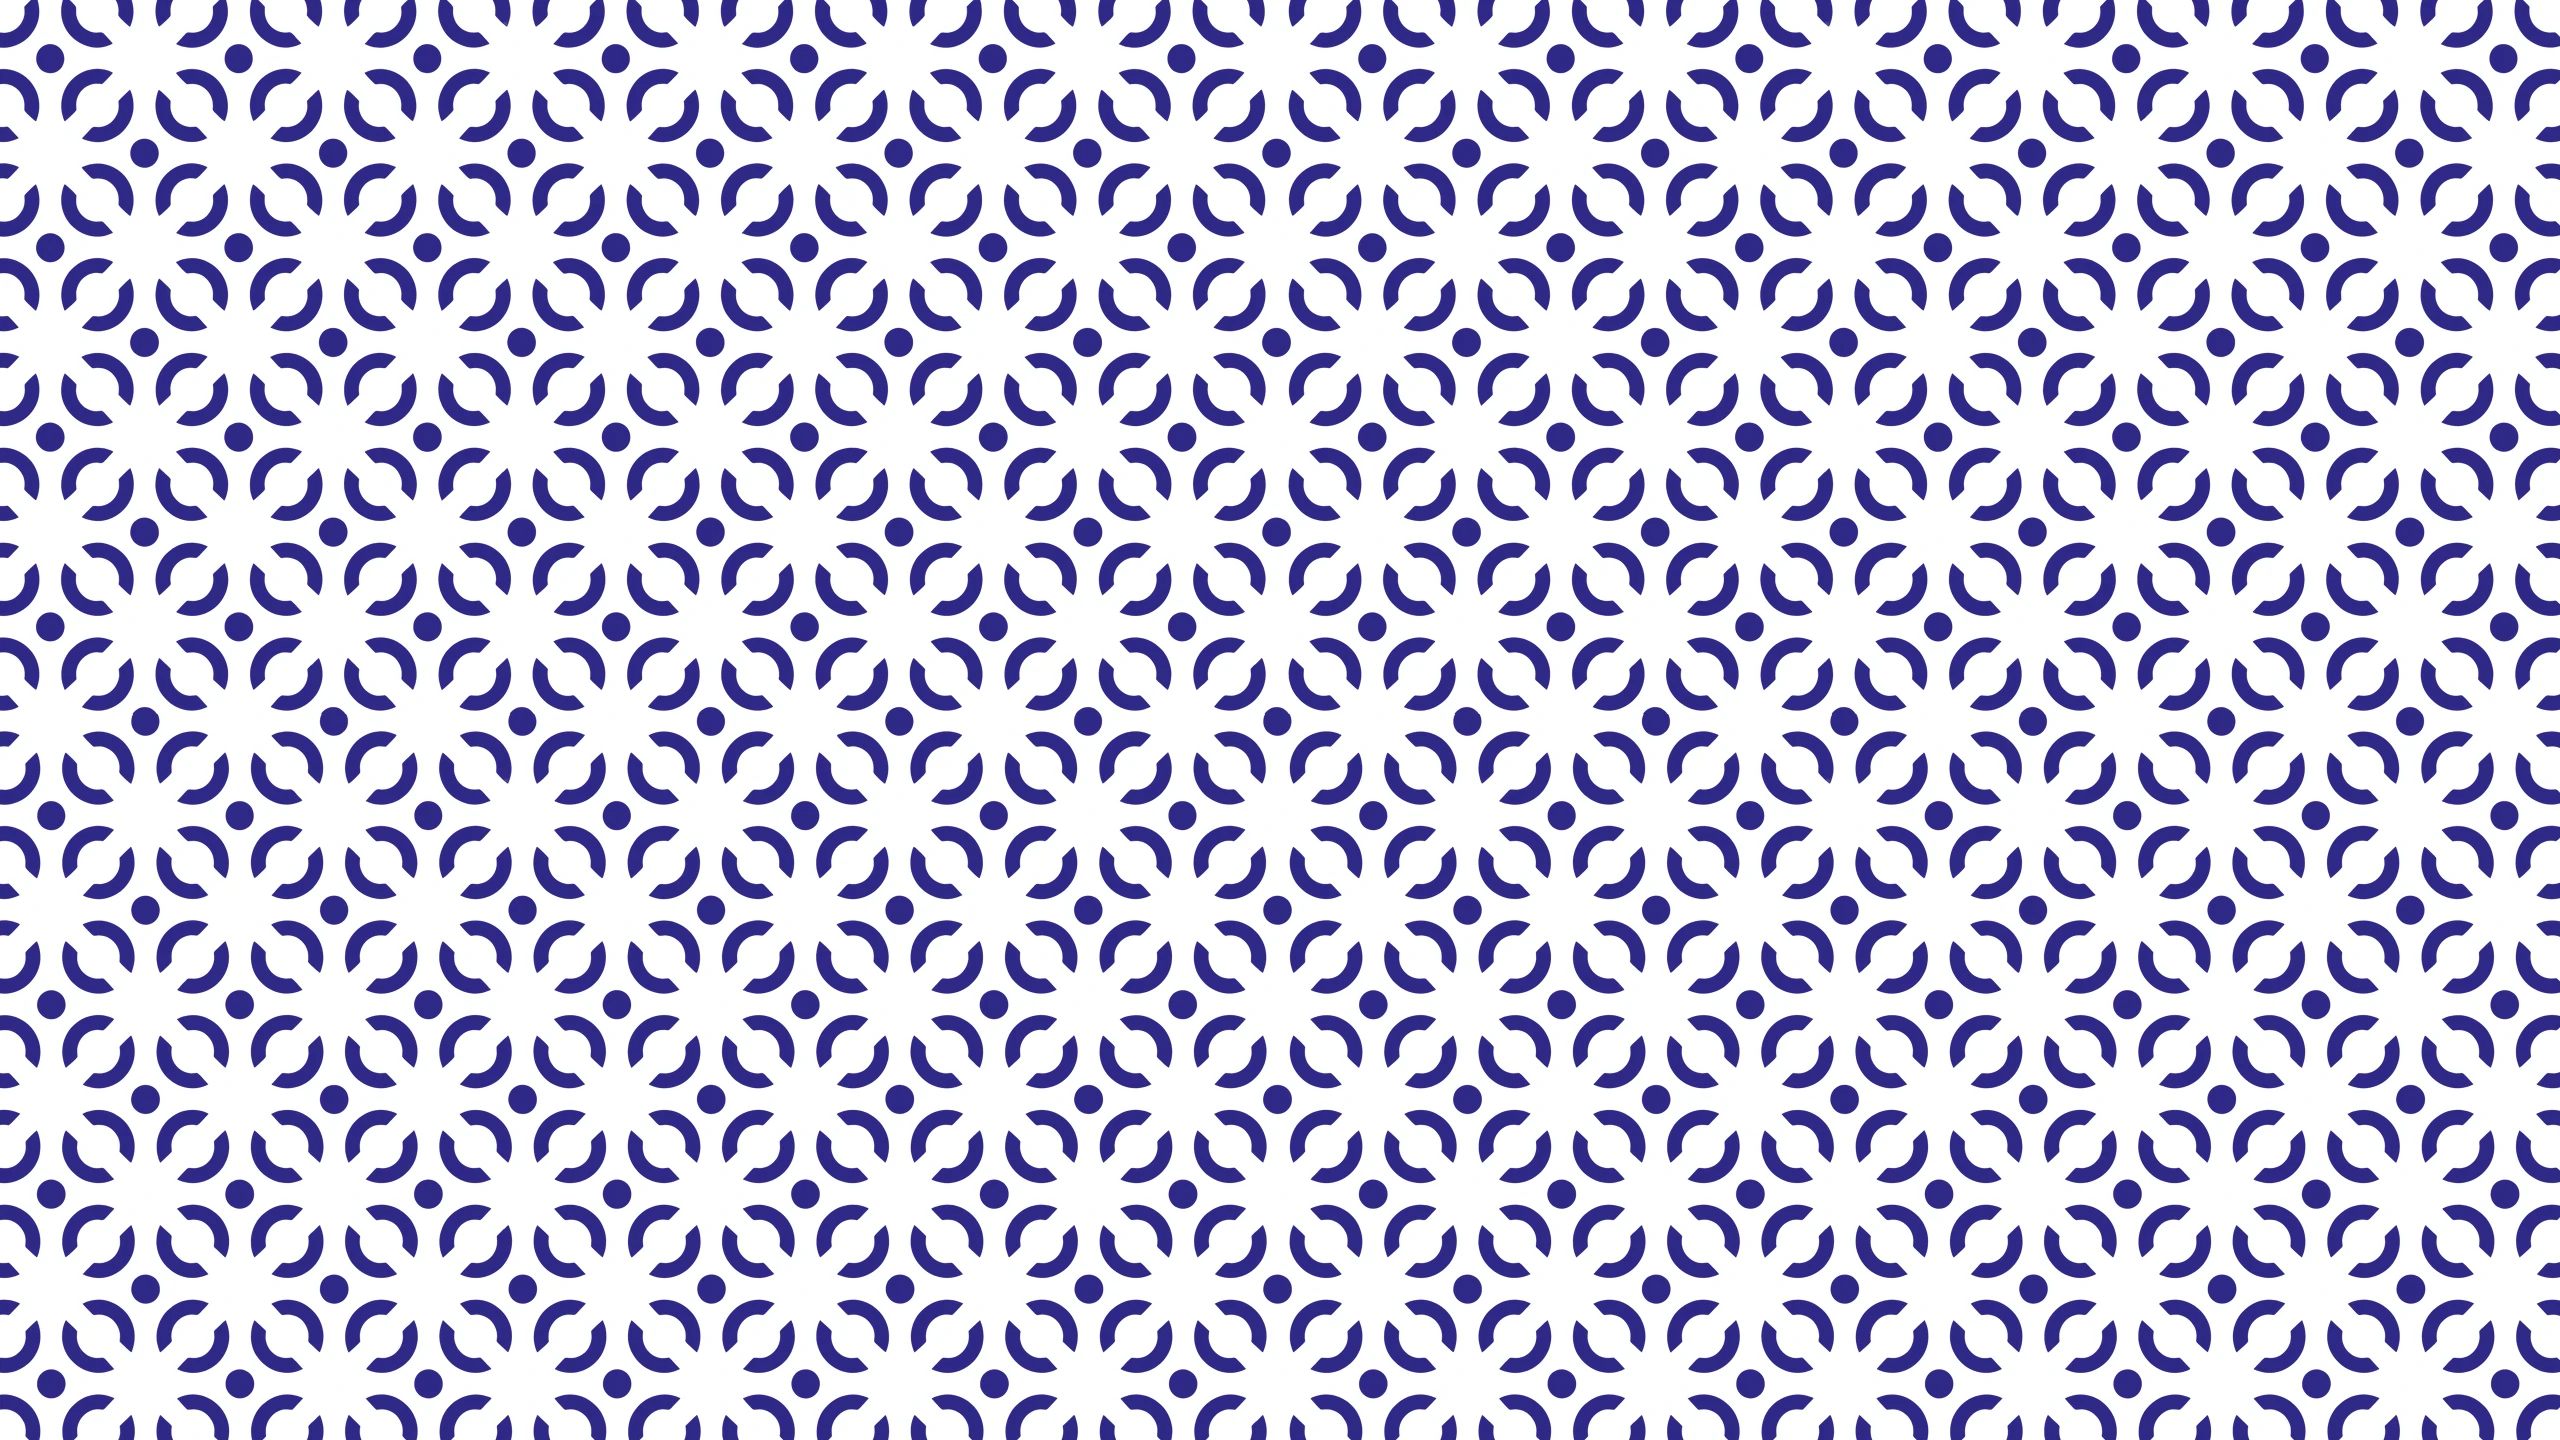
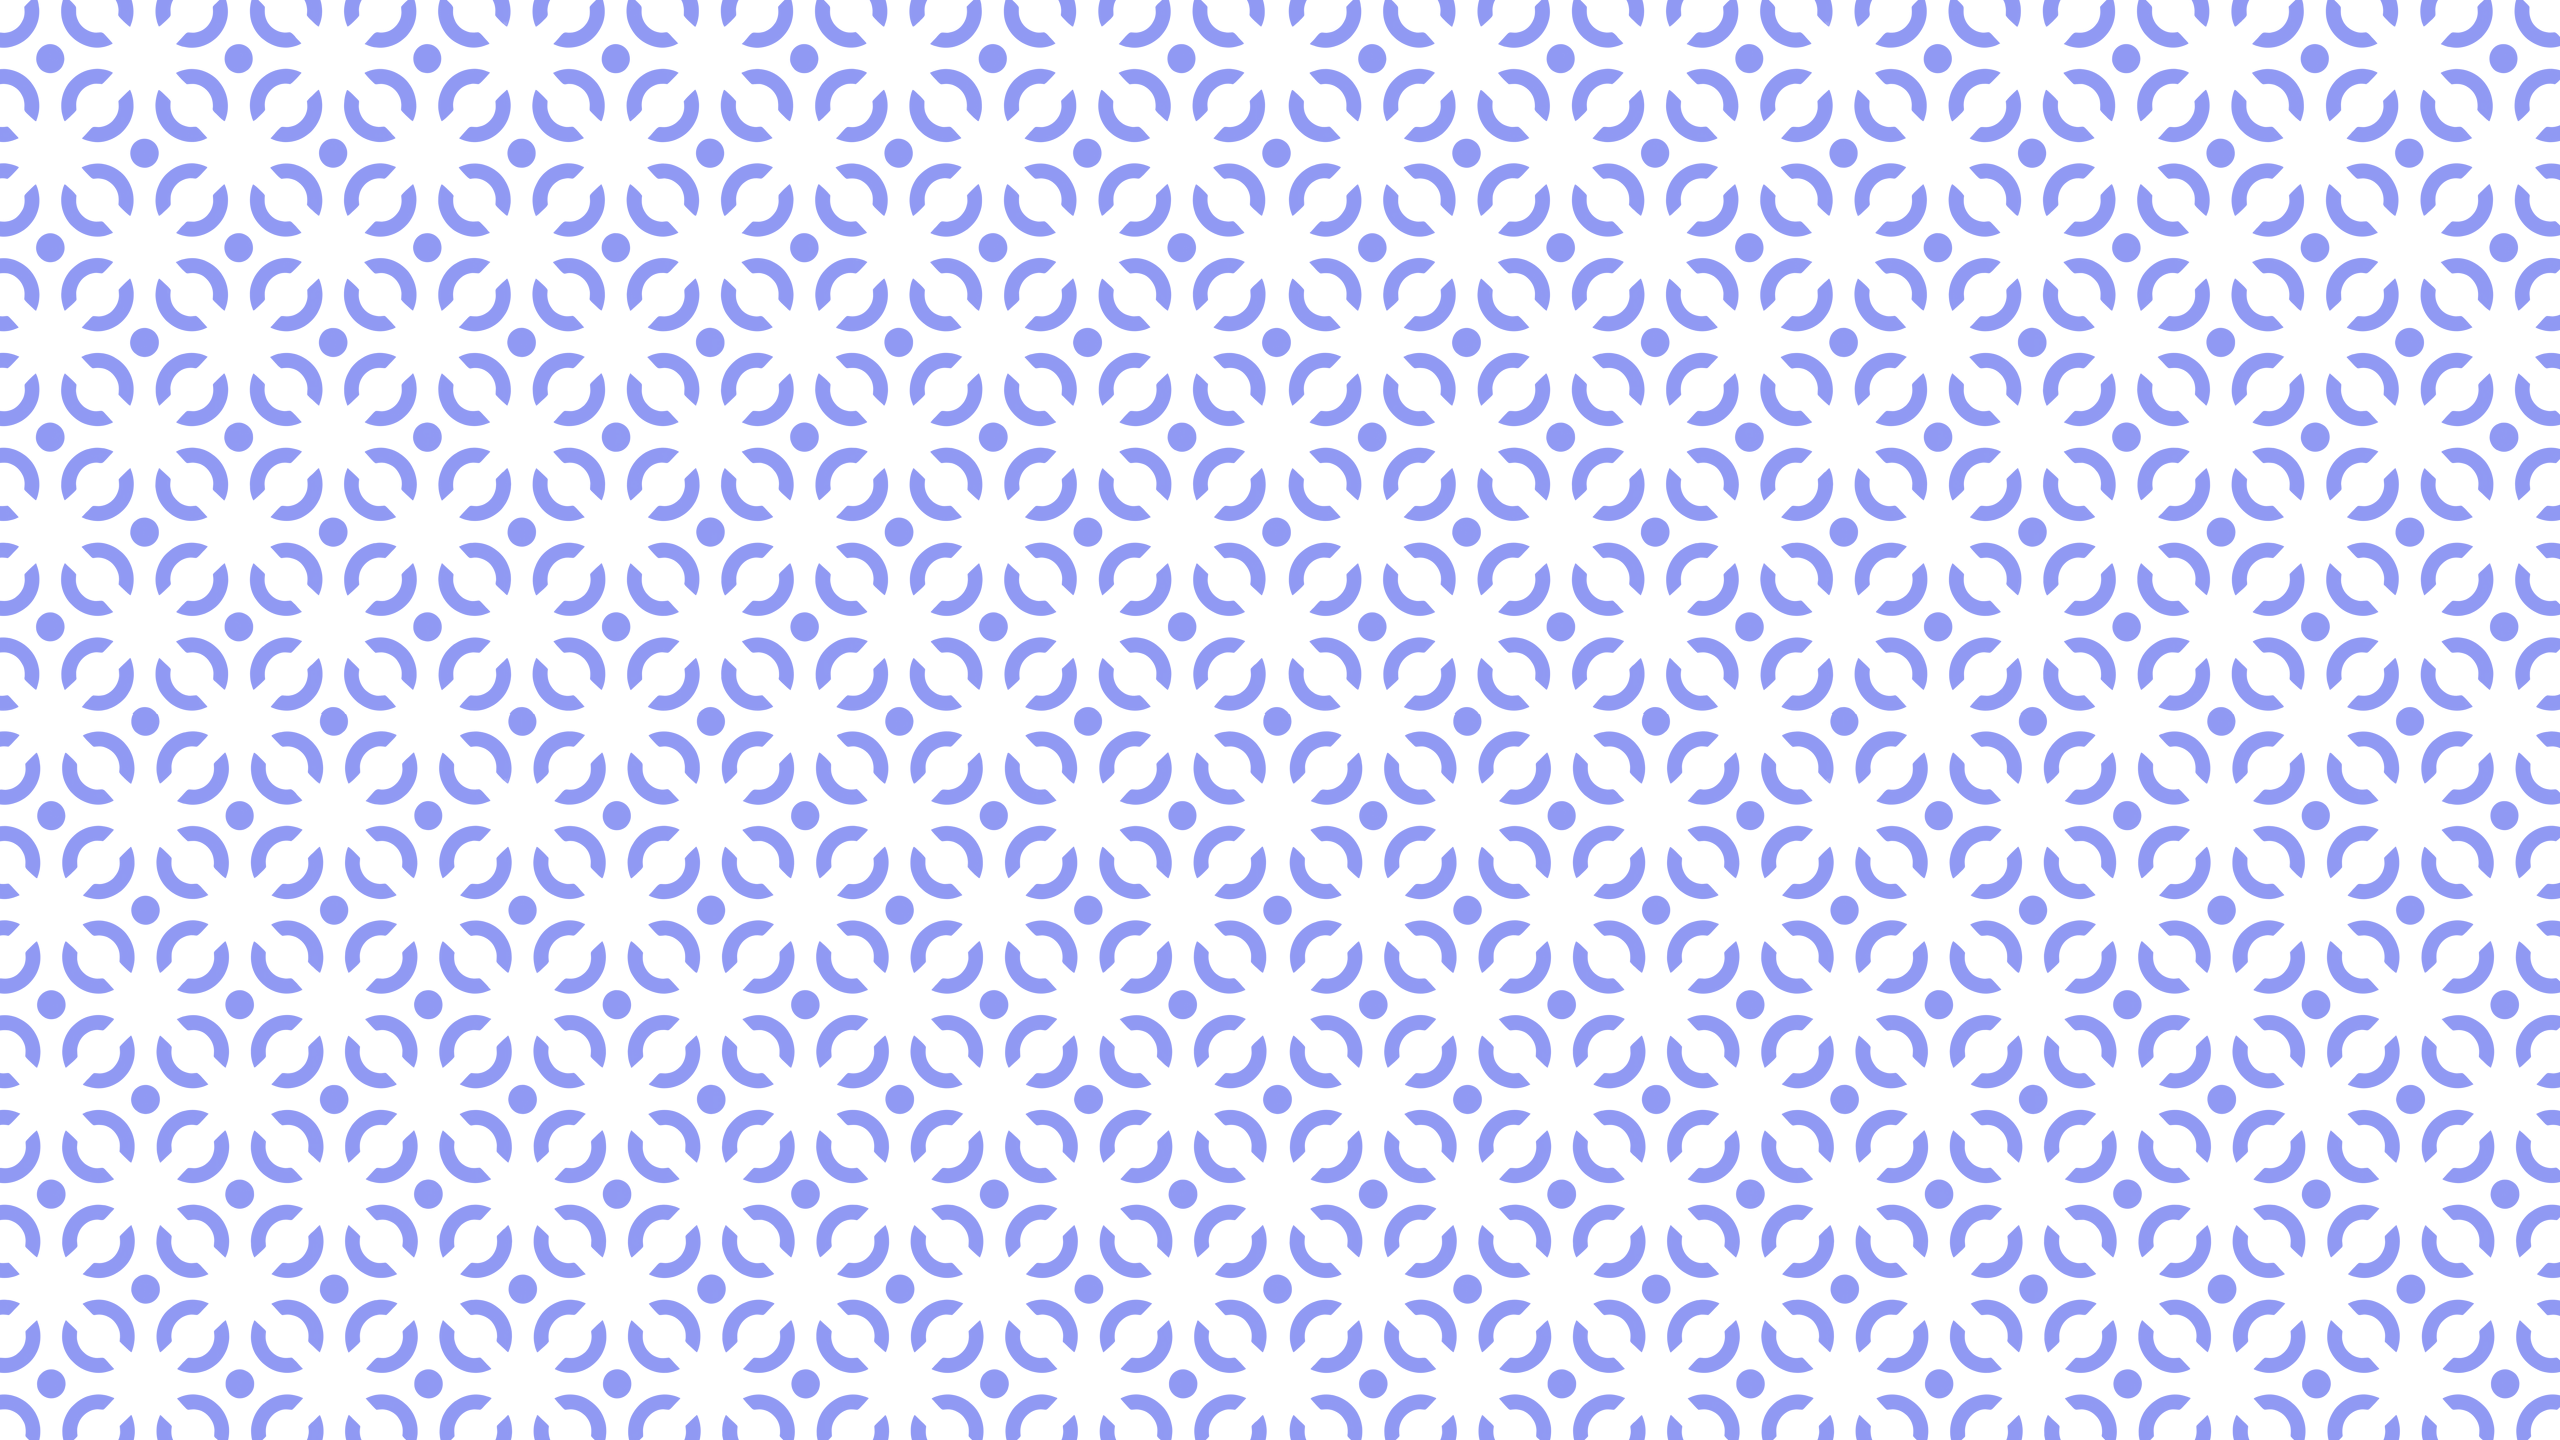
couleur bannière
changement de l'image et de l'opacité

Changed region(s): [[0.0, 0.0, 1.0, 1.0]]

diff --git a/FRONT/src/composants/bannerHead.jsx b/FRONT/src/composants/bannerHead.jsx
@@ -3,7 +3,7 @@ import pattern from "/images/pattern.webp"
 export default function bannerHead(){
     return(
         <section className="w-full">
-            <img src={pattern} alt="pattern" className="w-full h-50 object-cover opacity-60"/>
+            <img src={pattern} alt="pattern" className="w-full h-50 object-cover"/>
         </section>
     )
 }
